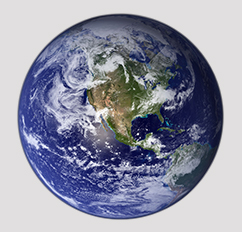
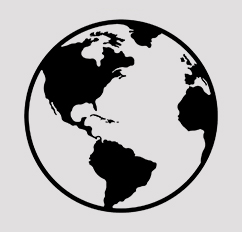
Added black and white earth
about us page

diff --git a/aboutus.html b/aboutus.html
@@ -79,7 +79,7 @@
   <h1 class="display-4"><strong>Dear Reader,</strong></h1>
 	  <p class="lead">We are Luminous and we would like to invite you to the world of self expression. We like to tell you a bit more about us and how we founded the company. Welcome to our store, your number one source for all things regarding jackets. We're dedicated to giving you the very best of designer jackets, with a focus on uniqueness, love and up to date for the latest trends.
 
-Founded in 202 by a group of students, Luminous has come a long way from its beginnings in a university. When they first started out, their passion for clothing drove him to selling them, and gave him the impetus to turn hard work and inspiration into to a booming online store. We now serve customers all over the world, and are thrilled to be a part of the eco-friendly wing of the fashion industry.
+Founded in 2020 by a group of students, Luminous has come a long way from its beginnings in a university. When they first started out, their passion for clothing drove him to selling them, and gave him the impetus to turn hard work and inspiration into to a booming online store. We now serve customers all over the world, and are thrilled to be a part of the eco-friendly wing of the fashion industry.
 
 We hope you enjoy our products as much as we enjoy offering them to you. If you have any questions or comments, please don't hesitate to contact us.
 
@@ -119,7 +119,7 @@ Leonie, Luis, Kevin and Alex. </p>
 		    </div>
 			<div class="col-lg-3 col-md-4 col-sm-6">
 				  <h3 class="text-center">Environment</h3>
-		      <img src="images/ABEarth.jpg" alt="Environment" class="imagesrow">
+		      <img src="Images/ABEarth.jpg" alt="Environment" class="imagesrow">
 			  <p class="text-center">We believe that sustainability and the planet is one of the important things we should care about while making products for our customers.</p>
 			  
 			  </div>

diff --git a/Css/Style.css b/Css/Style.css
@@ -360,10 +360,7 @@ font-size:	36px;
 	
 }
 
-.lead
-{
-	 color
-}
+
 
 .aboutusvaluestext {
 	
